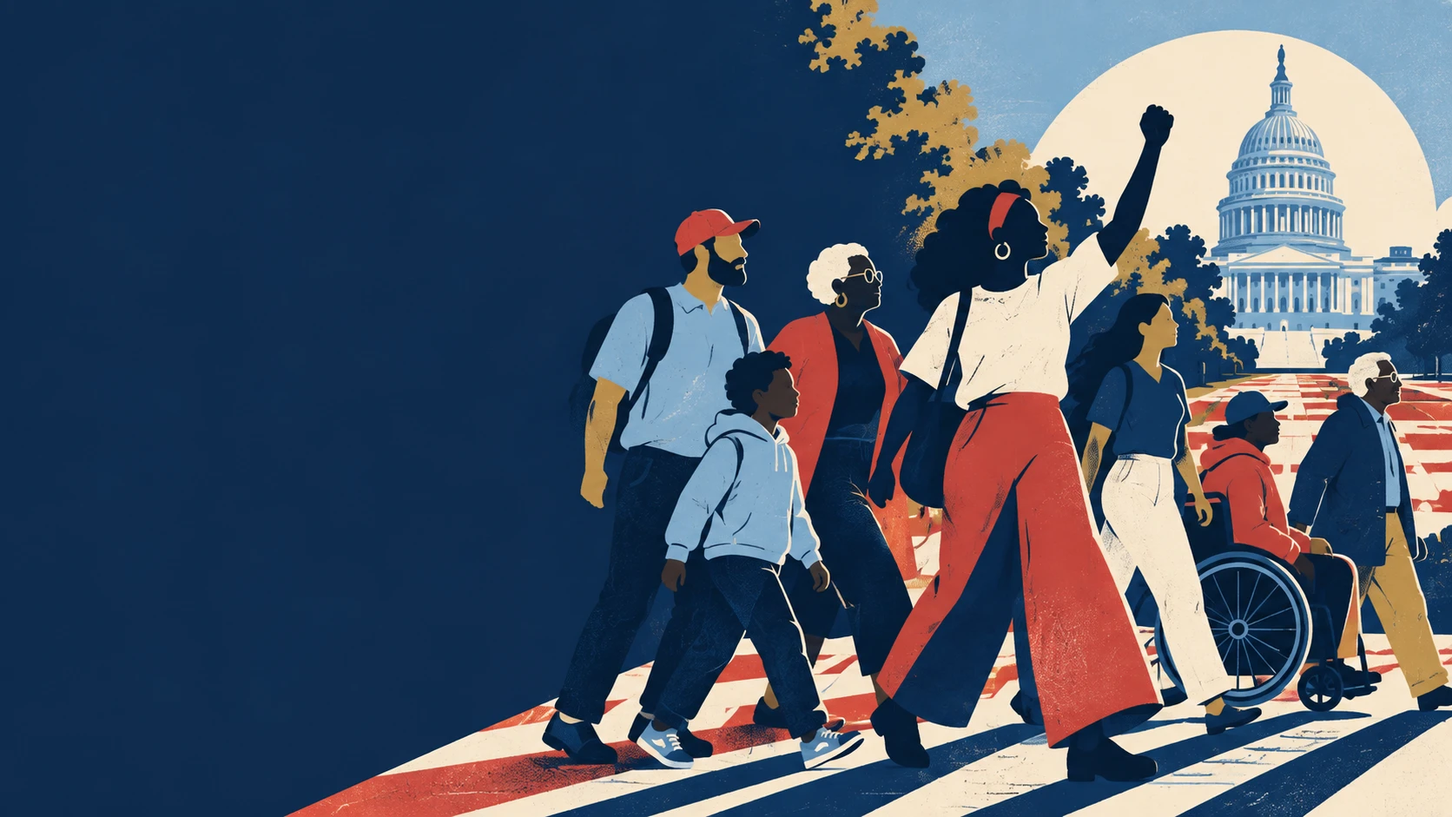
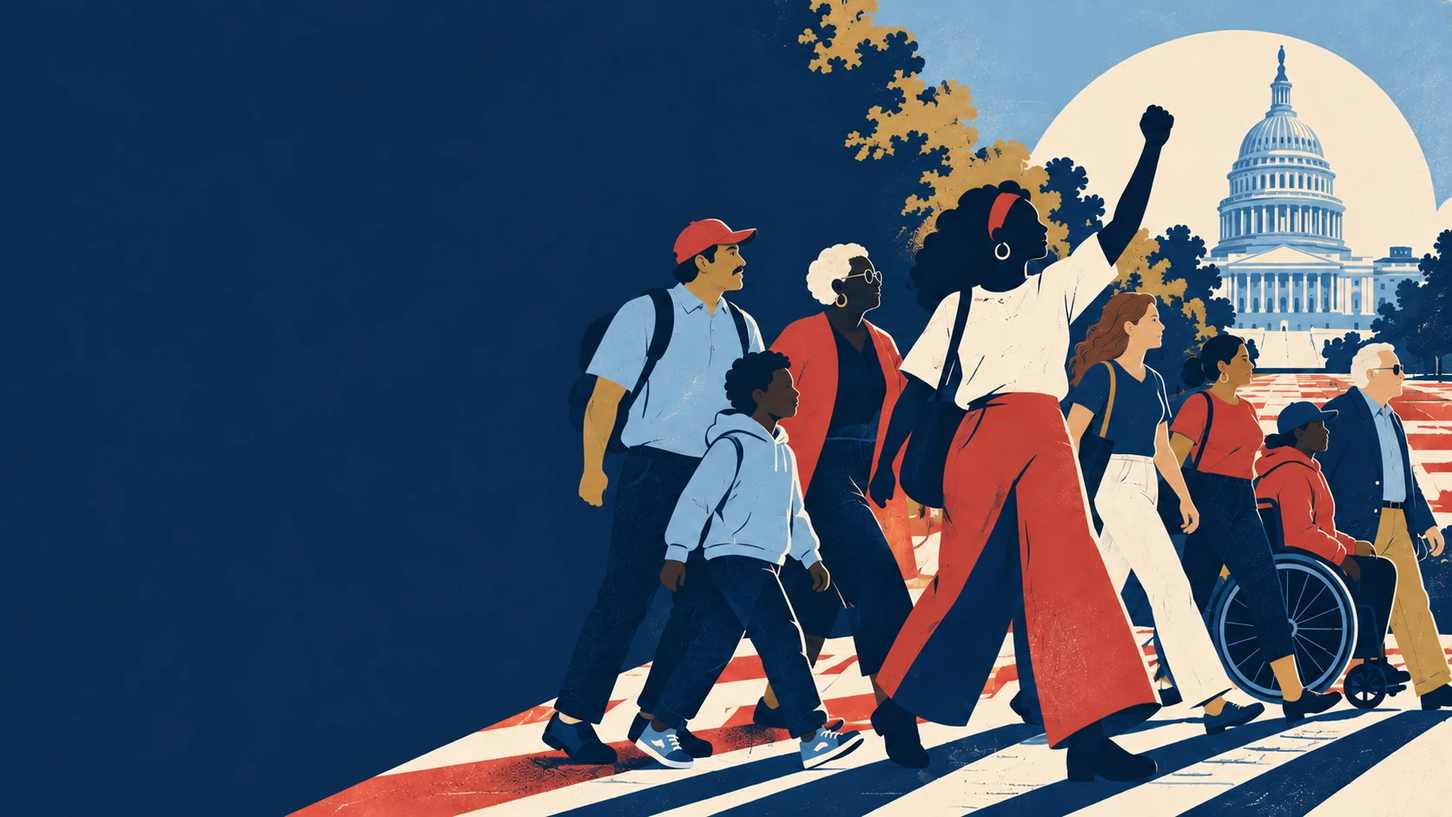
Hero illustration updated; bigger stars; website and cost lines in everyday words
Star rows in the nav, cost section and footer are one to two sizes larger. The website section and the matching cost lines drop the jargon: no PWA, funnel, data capture or ManyChat; each item says what the person sees and what happens next.

Claude-Session: https://claude.ai/code/session_0123hcW6i9a5ZmvJ6aCMrrAW

diff --git a/tailwind.css b/tailwind.css
@@ -1,1 +1,1 @@
-*,:after,:before{--tw-border-spacing-x:0;--tw-border-spacing-y:0;--tw-translate-x:0;--tw-translate-y:0;--tw-rotate:0;--tw-skew-x:0;--tw-skew-y:0;--tw-scale-x:1;--tw-scale-y:1;--tw-pan-x: ;--tw-pan-y: ;--tw-pinch-zoom: ;--tw-scroll-snap-strictness:proximity;--tw-gradient-from-position: ;--tw-gradient-via-position: ;--tw-gradient-to-position: ;--tw-ordinal: ;--tw-slashed-zero: ;--tw-numeric-figure: ;--tw-numeric-spacing: ;--tw-numeric-fraction: ;--tw-ring-inset: ;--tw-ring-offset-width:0px;--tw-ring-offset-color:#fff;--tw-ring-color:rgba(59,130,246,.5);--tw-ring-offset-shadow:0 0 #0000;--tw-ring-shadow:0 0 #0000;--tw-shadow:0 0 #0000;--tw-shadow-colored:0 0 #0000;--tw-blur: ;--tw-brightness: ;--tw-contrast: ;--tw-grayscale: ;--tw-hue-rotate: ;--tw-invert: ;--tw-saturate: ;--tw-sepia: ;--tw-drop-shadow: ;--tw-backdrop-blur: ;--tw-backdrop-brightness: ;--tw-backdrop-contrast: ;--tw-backdrop-grayscale: ;--tw-backdrop-hue-rotate: ;--tw-backdrop-invert: ;--tw-backdrop-opacity: ;--tw-backdrop-saturate: ;--tw-backdrop-sepia: ;--tw-contain-size: ;--tw-contain-layout: ;--tw-contain-paint: ;--tw-contain-style: }::backdrop{--tw-border-spacing-x:0;--tw-border-spacing-y:0;--tw-translate-x:0;--tw-translate-y:0;--tw-rotate:0;--tw-skew-x:0;--tw-skew-y:0;--tw-scale-x:1;--tw-scale-y:1;--tw-pan-x: ;--tw-pan-y: ;--tw-pinch-zoom: ;--tw-scroll-snap-strictness:proximity;--tw-gradient-from-position: ;--tw-gradient-via-position: ;--tw-gradient-to-position: ;--tw-ordinal: ;--tw-slashed-zero: ;--tw-numeric-figure: ;--tw-numeric-spacing: ;--tw-numeric-fraction: ;--tw-ring-inset: ;--tw-ring-offset-width:0px;--tw-ring-offset-color:#fff;--tw-ring-color:rgba(59,130,246,.5);--tw-ring-offset-shadow:0 0 #0000;--tw-ring-shadow:0 0 #0000;--tw-shadow:0 0 #0000;--tw-shadow-colored:0 0 #0000;--tw-blur: ;--tw-brightness: ;--tw-contrast: ;--tw-grayscale: ;--tw-hue-rotate: ;--tw-invert: ;--tw-saturate: ;--tw-sepia: ;--tw-drop-shadow: ;--tw-backdrop-blur: ;--tw-backdrop-brightness: ;--tw-backdrop-contrast: ;--tw-backdrop-grayscale: ;--tw-backdrop-hue-rotate: ;--tw-backdrop-invert: ;--tw-backdrop-opacity: ;--tw-backdrop-saturate: ;--tw-backdrop-sepia: ;--tw-contain-size: ;--tw-contain-layout: ;--tw-contain-paint: ;--tw-contain-style: }/*! tailwindcss v3.4.19 | MIT License | https://tailwindcss.com*/*,:after,:before{box-sizing:border-box;border:0 solid #e5e7eb}:after,:before{--tw-content:""}:host,html{line-height:1.5;-webkit-text-size-adjust:100%;-moz-tab-size:4;-o-tab-size:4;tab-size:4;font-family:Open Sans,sans-serif;font-feature-settings:normal;font-variation-settings:normal;-webkit-tap-highlight-color:transparent}body{margin:0;line-height:inherit}hr{height:0;color:inherit;border-top-width:1px}abbr:where([title]){-webkit-text-decoration:underline dotted;text-decoration:underline dotted}h1,h2,h3,h4,h5,h6{font-size:inherit;font-weight:inherit}a{color:inherit;text-decoration:inherit}b,strong{font-weight:bolder}code,kbd,pre,samp{font-family:ui-monospace,SFMono-Regular,Menlo,Monaco,Consolas,Liberation Mono,Courier New,monospace;font-feature-settings:normal;font-variation-settings:normal;font-size:1em}small{font-size:80%}sub,sup{font-size:75%;line-height:0;position:relative;vertical-align:baseline}sub{bottom:-.25em}sup{top:-.5em}table{text-indent:0;border-color:inherit;border-collapse:collapse}button,input,optgroup,select,textarea{font-family:inherit;font-feature-settings:inherit;font-variation-settings:inherit;font-size:100%;font-weight:inherit;line-height:inherit;letter-spacing:inherit;color:inherit;margin:0;padding:0}button,select{text-transform:none}button,input:where([type=button]),input:where([type=reset]),input:where([type=submit]){-webkit-appearance:button;background-color:transparent;background-image:none}:-moz-focusring{outline:auto}:-moz-ui-invalid{box-shadow:none}progress{vertical-align:baseline}::-webkit-inner-spin-button,::-webkit-outer-spin-button{height:auto}[type=search]{-webkit-appearance:textfield;outline-offset:-2px}::-webkit-search-decoration{-webkit-appearance:none}::-webkit-file-upload-button{-webkit-appearance:button;font:inherit}summary{display:list-item}blockquote,dd,dl,figure,h1,h2,h3,h4,h5,h6,hr,p,pre{margin:0}fieldset{margin:0}fieldset,legend{padding:0}menu,ol,ul{list-style:none;margin:0;padding:0}dialog{padding:0}textarea{resize:vertical}input::-moz-placeholder,textarea::-moz-placeholder{opacity:1;color:#9ca3af}input::placeholder,textarea::placeholder{opacity:1;color:#9ca3af}[role=button],button{cursor:pointer}:disabled{cursor:default}audio,canvas,embed,iframe,img,object,svg,video{display:block;vertical-align:middle}img,video{max-width:100%;height:auto}[hidden]:where(:not([hidden=until-found])){display:none}.pointer-events-none{pointer-events:none}.absolute{position:absolute}.relative{position:relative}.sticky{position:sticky}.inset-0{inset:0}.left-1\/2{left:50%}.top-0{top:0}.z-0{z-index:0}.z-10{z-index:10}.z-20{z-index:20}.z-50{z-index:50}.mx-auto{margin-left:auto;margin-right:auto}.my-24{margin-top:6rem;margin-bottom:6rem}.my-8{margin-top:2rem;margin-bottom:2rem}.mb-10{margin-bottom:2.5rem}.mb-16{margin-bottom:4rem}.mb-2{margin-bottom:.5rem}.mb-20{margin-bottom:5rem}.mb-24{margin-bottom:6rem}.mb-3{margin-bottom:.75rem}.mb-4{margin-bottom:1rem}.mb-5{margin-bottom:1.25rem}.mb-6{margin-bottom:1.5rem}.mb-8{margin-bottom:2rem}.mr-2{margin-right:.5rem}.mt-1{margin-top:.25rem}.mt-12{margin-top:3rem}.mt-2{margin-top:.5rem}.mt-24{margin-top:6rem}.mt-3{margin-top:.75rem}.mt-4{margin-top:1rem}.mt-6{margin-top:1.5rem}.block{display:block}.inline-block{display:inline-block}.flex{display:flex}.inline-flex{display:inline-flex}.grid{display:grid}.hidden{display:none}.h-12{height:3rem}.h-auto{height:auto}.w-12{width:3rem}.w-\[92vw\]{width:92vw}.w-full{width:100%}.min-w-0{min-width:0}.max-w-2xl{max-width:42rem}.max-w-3xl{max-width:48rem}.max-w-4xl{max-width:56rem}.max-w-5xl{max-width:64rem}.max-w-6xl{max-width:72rem}.max-w-7xl{max-width:80rem}.flex-1{flex:1 1 0%}.shrink-0{flex-shrink:0}.-translate-x-1\/2{--tw-translate-x:-50%}.-translate-x-1\/2,.-translate-y-1\/2{transform:translate(var(--tw-translate-x),var(--tw-translate-y)) rotate(var(--tw-rotate)) skewX(var(--tw-skew-x)) skewY(var(--tw-skew-y)) scaleX(var(--tw-scale-x)) scaleY(var(--tw-scale-y))}.-translate-y-1\/2{--tw-translate-y:-50%}.flex-col{flex-direction:column}.items-start{align-items:flex-start}.items-center{align-items:center}.justify-center{justify-content:center}.justify-between{justify-content:space-between}.gap-1{gap:.25rem}.gap-12{gap:3rem}.gap-16{gap:4rem}.gap-2{gap:.5rem}.gap-3{gap:.75rem}.gap-4{gap:1rem}.gap-6{gap:1.5rem}.gap-8{gap:2rem}.space-y-20>:not([hidden])~:not([hidden]){--tw-space-y-reverse:0;margin-top:calc(5rem*(1 - var(--tw-space-y-reverse)));margin-bottom:calc(5rem*var(--tw-space-y-reverse))}.space-y-4>:not([hidden])~:not([hidden]){--tw-space-y-reverse:0;margin-top:calc(1rem*(1 - var(--tw-space-y-reverse)));margin-bottom:calc(1rem*var(--tw-space-y-reverse))}.overflow-hidden{overflow:hidden}.scroll-smooth{scroll-behavior:smooth}.whitespace-nowrap{white-space:nowrap}.rounded-full{border-radius:9999px}.border{border-width:1px}.border-2{border-width:2px}.border-b{border-bottom-width:1px}.border-l-2{border-left-width:2px}.border-l-4{border-left-width:4px}.border-t{border-top-width:1px}.border-t-2{border-top-width:2px}.border-t-4{border-top-width:4px}.border-t-8{border-top-width:8px}.border-dcBlack{--tw-border-opacity:1;border-color:rgb(15 23 42/var(--tw-border-opacity,1))}.border-dcRed{--tw-border-opacity:1;border-color:rgb(227 24 55/var(--tw-border-opacity,1))}.border-gray-200{--tw-border-opacity:1;border-color:rgb(229 231 235/var(--tw-border-opacity,1))}.border-gray-300{--tw-border-opacity:1;border-color:rgb(209 213 219/var(--tw-border-opacity,1))}.border-gray-600{--tw-border-opacity:1;border-color:rgb(75 85 99/var(--tw-border-opacity,1))}.border-gray-700{--tw-border-opacity:1;border-color:rgb(55 65 81/var(--tw-border-opacity,1))}.border-white{--tw-border-opacity:1;border-color:rgb(255 255 255/var(--tw-border-opacity,1))}.bg-dcBlack{--tw-bg-opacity:1;background-color:rgb(15 23 42/var(--tw-bg-opacity,1))}.bg-dcRed{--tw-bg-opacity:1;background-color:rgb(227 24 55/var(--tw-bg-opacity,1))}.bg-gray-100{--tw-bg-opacity:1;background-color:rgb(243 244 246/var(--tw-bg-opacity,1))}.bg-gray-50{--tw-bg-opacity:1;background-color:rgb(249 250 251/var(--tw-bg-opacity,1))}.bg-transparent{background-color:transparent}.bg-white{--tw-bg-opacity:1;background-color:rgb(255 255 255/var(--tw-bg-opacity,1))}.bg-white\/95{background-color:hsla(0,0%,100%,.95)}.bg-\[url\(\'civil-rights-protest-wallpaper\.jpg\'\)\]{background-image:url(civil-rights-protest-wallpaper.jpg)}.bg-gradient-to-b{background-image:linear-gradient(to bottom,var(--tw-gradient-stops))}.from-gray-100{--tw-gradient-from:#f3f4f6 var(--tw-gradient-from-position);--tw-gradient-to:rgba(243,244,246,0) var(--tw-gradient-to-position);--tw-gradient-stops:var(--tw-gradient-from),var(--tw-gradient-to)}.via-white\/50{--tw-gradient-to:hsla(0,0%,100%,0) var(--tw-gradient-to-position);--tw-gradient-stops:var(--tw-gradient-from),hsla(0,0%,100%,.5) var(--tw-gradient-via-position),var(--tw-gradient-to)}.to-gray-100{--tw-gradient-to:#f3f4f6 var(--tw-gradient-to-position)}.bg-cover{background-size:cover}.bg-center{background-position:50%}.bg-no-repeat{background-repeat:no-repeat}.p-0{padding:0}.p-10{padding:2.5rem}.p-6{padding:1.5rem}.p-8{padding:2rem}.px-3{padding-left:.75rem;padding-right:.75rem}.px-4{padding-left:1rem;padding-right:1rem}.px-5{padding-left:1.25rem;padding-right:1.25rem}.px-6{padding-left:1.5rem;padding-right:1.5rem}.py-1{padding-top:.25rem;padding-bottom:.25rem}.py-16{padding-top:4rem;padding-bottom:4rem}.py-2{padding-top:.5rem;padding-bottom:.5rem}.py-20{padding-top:5rem;padding-bottom:5rem}.py-24{padding-top:6rem;padding-bottom:6rem}.py-3{padding-top:.75rem;padding-bottom:.75rem}.py-4{padding-top:1rem;padding-bottom:1rem}.py-6{padding-top:1.5rem;padding-bottom:1.5rem}.pb-10{padding-bottom:2.5rem}.pb-2{padding-bottom:.5rem}.pb-8{padding-bottom:2rem}.pl-4{padding-left:1rem}.pl-6{padding-left:1.5rem}.pt-12{padding-top:3rem}.pt-2{padding-top:.5rem}.text-left{text-align:left}.text-center{text-align:center}.font-heading{font-family:Montserrat,sans-serif}.font-sans{font-family:Open Sans,sans-serif}.text-2xl{font-size:1.5rem;line-height:2rem}.text-3xl{font-size:1.875rem;line-height:2.25rem}.text-4xl{font-size:2.25rem;line-height:2.5rem}.text-5xl{font-size:3rem;line-height:1}.text-6xl{font-size:3.75rem;line-height:1}.text-\[10px\]{font-size:10px}.text-base{font-size:1rem;line-height:1.5rem}.text-lg{font-size:1.125rem;line-height:1.75rem}.text-sm{font-size:.875rem;line-height:1.25rem}.text-xl{font-size:1.25rem;line-height:1.75rem}.text-xs{font-size:.75rem;line-height:1rem}.font-black{font-weight:900}.font-bold{font-weight:700}.font-light{font-weight:300}.uppercase{text-transform:uppercase}.leading-\[0\.9\]{line-height:.9}.leading-none{line-height:1}.leading-relaxed{line-height:1.625}.leading-snug{line-height:1.375}.leading-tight{line-height:1.25}.tracking-\[0\.2em\]{letter-spacing:.2em}.tracking-\[0\.3em\]{letter-spacing:.3em}.tracking-tight{letter-spacing:-.025em}.tracking-tighter{letter-spacing:-.05em}.tracking-wider{letter-spacing:.05em}.tracking-widest{letter-spacing:.1em}.text-dcBlack{--tw-text-opacity:1;color:rgb(15 23 42/var(--tw-text-opacity,1))}.text-dcRed{--tw-text-opacity:1;color:rgb(227 24 55/var(--tw-text-opacity,1))}.text-gray-300{--tw-text-opacity:1;color:rgb(209 213 219/var(--tw-text-opacity,1))}.text-gray-400{--tw-text-opacity:1;color:rgb(156 163 175/var(--tw-text-opacity,1))}.text-gray-500{--tw-text-opacity:1;color:rgb(107 114 128/var(--tw-text-opacity,1))}.text-gray-600{--tw-text-opacity:1;color:rgb(75 85 99/var(--tw-text-opacity,1))}.text-gray-700{--tw-text-opacity:1;color:rgb(55 65 81/var(--tw-text-opacity,1))}.text-gray-800{--tw-text-opacity:1;color:rgb(31 41 55/var(--tw-text-opacity,1))}.text-white{--tw-text-opacity:1;color:rgb(255 255 255/var(--tw-text-opacity,1))}.antialiased{-webkit-font-smoothing:antialiased;-moz-osx-font-smoothing:grayscale}.opacity-\[0\.08\]{opacity:.08}.mix-blend-multiply{mix-blend-mode:multiply}.shadow-\[0_20px_50px_rgba\(0\2c 0\2c 0\2c 0\.08\)\]{--tw-shadow:0 20px 50px rgba(0,0,0,.08);--tw-shadow-colored:0 20px 50px var(--tw-shadow-color)}.shadow-\[0_20px_50px_rgba\(0\2c 0\2c 0\2c 0\.08\)\],.shadow-md{box-shadow:var(--tw-ring-offset-shadow,0 0 #0000),var(--tw-ring-shadow,0 0 #0000),var(--tw-shadow)}.shadow-md{--tw-shadow:0 4px 6px -1px rgba(0,0,0,.1),0 2px 4px -2px rgba(0,0,0,.1);--tw-shadow-colored:0 4px 6px -1px var(--tw-shadow-color),0 2px 4px -2px var(--tw-shadow-color)}.shadow-sm{--tw-shadow:0 1px 2px 0 rgba(0,0,0,.05);--tw-shadow-colored:0 1px 2px 0 var(--tw-shadow-color);box-shadow:var(--tw-ring-offset-shadow,0 0 #0000),var(--tw-ring-shadow,0 0 #0000),var(--tw-shadow)}.grayscale{--tw-grayscale:grayscale(100%);filter:var(--tw-blur) var(--tw-brightness) var(--tw-contrast) var(--tw-grayscale) var(--tw-hue-rotate) var(--tw-invert) var(--tw-saturate) var(--tw-sepia) var(--tw-drop-shadow)}.backdrop-blur-md{--tw-backdrop-blur:blur(12px);-webkit-backdrop-filter:var(--tw-backdrop-blur) var(--tw-backdrop-brightness) var(--tw-backdrop-contrast) var(--tw-backdrop-grayscale) var(--tw-backdrop-hue-rotate) var(--tw-backdrop-invert) var(--tw-backdrop-opacity) var(--tw-backdrop-saturate) var(--tw-backdrop-sepia);backdrop-filter:var(--tw-backdrop-blur) var(--tw-backdrop-brightness) var(--tw-backdrop-contrast) var(--tw-backdrop-grayscale) var(--tw-backdrop-hue-rotate) var(--tw-backdrop-invert) var(--tw-backdrop-opacity) var(--tw-backdrop-saturate) var(--tw-backdrop-sepia)}.transition{transition-property:color,background-color,border-color,text-decoration-color,fill,stroke,opacity,box-shadow,transform,filter,-webkit-backdrop-filter;transition-property:color,background-color,border-color,text-decoration-color,fill,stroke,opacity,box-shadow,transform,filter,backdrop-filter;transition-property:color,background-color,border-color,text-decoration-color,fill,stroke,opacity,box-shadow,transform,filter,backdrop-filter,-webkit-backdrop-filter;transition-timing-function:cubic-bezier(.4,0,.2,1);transition-duration:.15s}.transition-colors{transition-property:color,background-color,border-color,text-decoration-color,fill,stroke;transition-timing-function:cubic-bezier(.4,0,.2,1);transition-duration:.15s}.selection\:bg-dcRed ::-moz-selection{--tw-bg-opacity:1;background-color:rgb(227 24 55/var(--tw-bg-opacity,1))}.selection\:bg-dcRed ::selection{--tw-bg-opacity:1;background-color:rgb(227 24 55/var(--tw-bg-opacity,1))}.selection\:text-white ::-moz-selection{--tw-text-opacity:1;color:rgb(255 255 255/var(--tw-text-opacity,1))}.selection\:text-white ::selection{--tw-text-opacity:1;color:rgb(255 255 255/var(--tw-text-opacity,1))}.selection\:bg-dcRed::-moz-selection{--tw-bg-opacity:1;background-color:rgb(227 24 55/var(--tw-bg-opacity,1))}.selection\:bg-dcRed::selection{--tw-bg-opacity:1;background-color:rgb(227 24 55/var(--tw-bg-opacity,1))}.selection\:text-white::-moz-selection{--tw-text-opacity:1;color:rgb(255 255 255/var(--tw-text-opacity,1))}.selection\:text-white::selection{--tw-text-opacity:1;color:rgb(255 255 255/var(--tw-text-opacity,1))}.backdrop\:bg-dcBlack\/90::backdrop{background-color:rgba(15,23,42,.9)}.hover\:bg-dcRed:hover{--tw-bg-opacity:1;background-color:rgb(227 24 55/var(--tw-bg-opacity,1))}.hover\:text-dcBlack:hover{--tw-text-opacity:1;color:rgb(15 23 42/var(--tw-text-opacity,1))}.hover\:text-dcRed:hover{--tw-text-opacity:1;color:rgb(227 24 55/var(--tw-text-opacity,1))}.focus\:outline-none:focus{outline:2px solid transparent;outline-offset:2px}.group:hover .group-hover\:text-dcRed{--tw-text-opacity:1;color:rgb(227 24 55/var(--tw-text-opacity,1))}@media (min-width:768px){.md\:col-span-2{grid-column:span 2/span 2}.md\:mt-0{margin-top:0}.md\:inline-block{display:inline-block}.md\:w-1\/3{width:33.333333%}.md\:w-1\/4{width:25%}.md\:w-2\/3{width:66.666667%}.md\:w-3\/4{width:75%}.md\:grid-cols-2{grid-template-columns:repeat(2,minmax(0,1fr))}.md\:grid-cols-4{grid-template-columns:repeat(4,minmax(0,1fr))}.md\:flex-row{flex-direction:row}.md\:items-center{align-items:center}.md\:gap-0{gap:0}.md\:gap-12{gap:3rem}.md\:gap-3{gap:.75rem}.md\:border-b-0{border-bottom-width:0}.md\:border-l-2{border-left-width:2px}.md\:border-r{border-right-width:1px}.md\:p-10{padding:2.5rem}.md\:p-12{padding:3rem}.md\:p-14{padding:3.5rem}.md\:p-8{padding:2rem}.md\:px-12{padding-left:3rem;padding-right:3rem}.md\:py-32{padding-top:8rem;padding-bottom:8rem}.md\:pb-0{padding-bottom:0}.md\:pl-12{padding-left:3rem}.md\:pl-4{padding-left:1rem}.md\:pr-12{padding-right:3rem}.md\:pr-8{padding-right:2rem}.md\:text-right{text-align:right}.md\:text-2xl{font-size:1.5rem;line-height:2rem}.md\:text-3xl{font-size:1.875rem;line-height:2.25rem}.md\:text-4xl{font-size:2.25rem;line-height:2.5rem}.md\:text-5xl{font-size:3rem;line-height:1}.md\:text-6xl{font-size:3.75rem;line-height:1}.md\:text-7xl{font-size:4.5rem;line-height:1}.md\:text-xs{font-size:.75rem;line-height:1rem}}@media (min-width:1024px){.lg\:w-1\/3{width:33.333333%}.lg\:w-2\/3{width:66.666667%}.lg\:flex-row{flex-direction:row}.lg\:pl-16{padding-left:4rem}.lg\:pr-16{padding-right:4rem}.lg\:text-\[5\.5rem\]{font-size:5.5rem}}@media (min-width:1280px){.xl\:flex{display:flex}}
+*,:after,:before{--tw-border-spacing-x:0;--tw-border-spacing-y:0;--tw-translate-x:0;--tw-translate-y:0;--tw-rotate:0;--tw-skew-x:0;--tw-skew-y:0;--tw-scale-x:1;--tw-scale-y:1;--tw-pan-x: ;--tw-pan-y: ;--tw-pinch-zoom: ;--tw-scroll-snap-strictness:proximity;--tw-gradient-from-position: ;--tw-gradient-via-position: ;--tw-gradient-to-position: ;--tw-ordinal: ;--tw-slashed-zero: ;--tw-numeric-figure: ;--tw-numeric-spacing: ;--tw-numeric-fraction: ;--tw-ring-inset: ;--tw-ring-offset-width:0px;--tw-ring-offset-color:#fff;--tw-ring-color:rgba(59,130,246,.5);--tw-ring-offset-shadow:0 0 #0000;--tw-ring-shadow:0 0 #0000;--tw-shadow:0 0 #0000;--tw-shadow-colored:0 0 #0000;--tw-blur: ;--tw-brightness: ;--tw-contrast: ;--tw-grayscale: ;--tw-hue-rotate: ;--tw-invert: ;--tw-saturate: ;--tw-sepia: ;--tw-drop-shadow: ;--tw-backdrop-blur: ;--tw-backdrop-brightness: ;--tw-backdrop-contrast: ;--tw-backdrop-grayscale: ;--tw-backdrop-hue-rotate: ;--tw-backdrop-invert: ;--tw-backdrop-opacity: ;--tw-backdrop-saturate: ;--tw-backdrop-sepia: ;--tw-contain-size: ;--tw-contain-layout: ;--tw-contain-paint: ;--tw-contain-style: }::backdrop{--tw-border-spacing-x:0;--tw-border-spacing-y:0;--tw-translate-x:0;--tw-translate-y:0;--tw-rotate:0;--tw-skew-x:0;--tw-skew-y:0;--tw-scale-x:1;--tw-scale-y:1;--tw-pan-x: ;--tw-pan-y: ;--tw-pinch-zoom: ;--tw-scroll-snap-strictness:proximity;--tw-gradient-from-position: ;--tw-gradient-via-position: ;--tw-gradient-to-position: ;--tw-ordinal: ;--tw-slashed-zero: ;--tw-numeric-figure: ;--tw-numeric-spacing: ;--tw-numeric-fraction: ;--tw-ring-inset: ;--tw-ring-offset-width:0px;--tw-ring-offset-color:#fff;--tw-ring-color:rgba(59,130,246,.5);--tw-ring-offset-shadow:0 0 #0000;--tw-ring-shadow:0 0 #0000;--tw-shadow:0 0 #0000;--tw-shadow-colored:0 0 #0000;--tw-blur: ;--tw-brightness: ;--tw-contrast: ;--tw-grayscale: ;--tw-hue-rotate: ;--tw-invert: ;--tw-saturate: ;--tw-sepia: ;--tw-drop-shadow: ;--tw-backdrop-blur: ;--tw-backdrop-brightness: ;--tw-backdrop-contrast: ;--tw-backdrop-grayscale: ;--tw-backdrop-hue-rotate: ;--tw-backdrop-invert: ;--tw-backdrop-opacity: ;--tw-backdrop-saturate: ;--tw-backdrop-sepia: ;--tw-contain-size: ;--tw-contain-layout: ;--tw-contain-paint: ;--tw-contain-style: }/*! tailwindcss v3.4.19 | MIT License | https://tailwindcss.com*/*,:after,:before{box-sizing:border-box;border:0 solid #e5e7eb}:after,:before{--tw-content:""}:host,html{line-height:1.5;-webkit-text-size-adjust:100%;-moz-tab-size:4;-o-tab-size:4;tab-size:4;font-family:Open Sans,sans-serif;font-feature-settings:normal;font-variation-settings:normal;-webkit-tap-highlight-color:transparent}body{margin:0;line-height:inherit}hr{height:0;color:inherit;border-top-width:1px}abbr:where([title]){-webkit-text-decoration:underline dotted;text-decoration:underline dotted}h1,h2,h3,h4,h5,h6{font-size:inherit;font-weight:inherit}a{color:inherit;text-decoration:inherit}b,strong{font-weight:bolder}code,kbd,pre,samp{font-family:ui-monospace,SFMono-Regular,Menlo,Monaco,Consolas,Liberation Mono,Courier New,monospace;font-feature-settings:normal;font-variation-settings:normal;font-size:1em}small{font-size:80%}sub,sup{font-size:75%;line-height:0;position:relative;vertical-align:baseline}sub{bottom:-.25em}sup{top:-.5em}table{text-indent:0;border-color:inherit;border-collapse:collapse}button,input,optgroup,select,textarea{font-family:inherit;font-feature-settings:inherit;font-variation-settings:inherit;font-size:100%;font-weight:inherit;line-height:inherit;letter-spacing:inherit;color:inherit;margin:0;padding:0}button,select{text-transform:none}button,input:where([type=button]),input:where([type=reset]),input:where([type=submit]){-webkit-appearance:button;background-color:transparent;background-image:none}:-moz-focusring{outline:auto}:-moz-ui-invalid{box-shadow:none}progress{vertical-align:baseline}::-webkit-inner-spin-button,::-webkit-outer-spin-button{height:auto}[type=search]{-webkit-appearance:textfield;outline-offset:-2px}::-webkit-search-decoration{-webkit-appearance:none}::-webkit-file-upload-button{-webkit-appearance:button;font:inherit}summary{display:list-item}blockquote,dd,dl,figure,h1,h2,h3,h4,h5,h6,hr,p,pre{margin:0}fieldset{margin:0}fieldset,legend{padding:0}menu,ol,ul{list-style:none;margin:0;padding:0}dialog{padding:0}textarea{resize:vertical}input::-moz-placeholder,textarea::-moz-placeholder{opacity:1;color:#9ca3af}input::placeholder,textarea::placeholder{opacity:1;color:#9ca3af}[role=button],button{cursor:pointer}:disabled{cursor:default}audio,canvas,embed,iframe,img,object,svg,video{display:block;vertical-align:middle}img,video{max-width:100%;height:auto}[hidden]:where(:not([hidden=until-found])){display:none}.pointer-events-none{pointer-events:none}.absolute{position:absolute}.relative{position:relative}.sticky{position:sticky}.inset-0{inset:0}.left-1\/2{left:50%}.top-0{top:0}.z-0{z-index:0}.z-10{z-index:10}.z-20{z-index:20}.z-50{z-index:50}.mx-auto{margin-left:auto;margin-right:auto}.my-24{margin-top:6rem;margin-bottom:6rem}.my-8{margin-top:2rem;margin-bottom:2rem}.mb-10{margin-bottom:2.5rem}.mb-16{margin-bottom:4rem}.mb-2{margin-bottom:.5rem}.mb-20{margin-bottom:5rem}.mb-24{margin-bottom:6rem}.mb-3{margin-bottom:.75rem}.mb-4{margin-bottom:1rem}.mb-5{margin-bottom:1.25rem}.mb-6{margin-bottom:1.5rem}.mb-8{margin-bottom:2rem}.mr-2{margin-right:.5rem}.mt-1{margin-top:.25rem}.mt-12{margin-top:3rem}.mt-2{margin-top:.5rem}.mt-24{margin-top:6rem}.mt-3{margin-top:.75rem}.mt-4{margin-top:1rem}.mt-6{margin-top:1.5rem}.block{display:block}.inline-block{display:inline-block}.flex{display:flex}.inline-flex{display:inline-flex}.grid{display:grid}.hidden{display:none}.h-12{height:3rem}.h-auto{height:auto}.w-12{width:3rem}.w-\[92vw\]{width:92vw}.w-full{width:100%}.min-w-0{min-width:0}.max-w-2xl{max-width:42rem}.max-w-3xl{max-width:48rem}.max-w-4xl{max-width:56rem}.max-w-5xl{max-width:64rem}.max-w-6xl{max-width:72rem}.max-w-7xl{max-width:80rem}.flex-1{flex:1 1 0%}.shrink-0{flex-shrink:0}.-translate-x-1\/2{--tw-translate-x:-50%}.-translate-x-1\/2,.-translate-y-1\/2{transform:translate(var(--tw-translate-x),var(--tw-translate-y)) rotate(var(--tw-rotate)) skewX(var(--tw-skew-x)) skewY(var(--tw-skew-y)) scaleX(var(--tw-scale-x)) scaleY(var(--tw-scale-y))}.-translate-y-1\/2{--tw-translate-y:-50%}.flex-col{flex-direction:column}.items-start{align-items:flex-start}.items-center{align-items:center}.justify-center{justify-content:center}.justify-between{justify-content:space-between}.gap-1{gap:.25rem}.gap-1\.5{gap:.375rem}.gap-12{gap:3rem}.gap-16{gap:4rem}.gap-2{gap:.5rem}.gap-3{gap:.75rem}.gap-4{gap:1rem}.gap-6{gap:1.5rem}.gap-8{gap:2rem}.space-y-20>:not([hidden])~:not([hidden]){--tw-space-y-reverse:0;margin-top:calc(5rem*(1 - var(--tw-space-y-reverse)));margin-bottom:calc(5rem*var(--tw-space-y-reverse))}.space-y-4>:not([hidden])~:not([hidden]){--tw-space-y-reverse:0;margin-top:calc(1rem*(1 - var(--tw-space-y-reverse)));margin-bottom:calc(1rem*var(--tw-space-y-reverse))}.overflow-hidden{overflow:hidden}.scroll-smooth{scroll-behavior:smooth}.whitespace-nowrap{white-space:nowrap}.rounded-full{border-radius:9999px}.border{border-width:1px}.border-2{border-width:2px}.border-b{border-bottom-width:1px}.border-l-2{border-left-width:2px}.border-l-4{border-left-width:4px}.border-t{border-top-width:1px}.border-t-2{border-top-width:2px}.border-t-4{border-top-width:4px}.border-t-8{border-top-width:8px}.border-dcBlack{--tw-border-opacity:1;border-color:rgb(15 23 42/var(--tw-border-opacity,1))}.border-dcRed{--tw-border-opacity:1;border-color:rgb(227 24 55/var(--tw-border-opacity,1))}.border-gray-200{--tw-border-opacity:1;border-color:rgb(229 231 235/var(--tw-border-opacity,1))}.border-gray-300{--tw-border-opacity:1;border-color:rgb(209 213 219/var(--tw-border-opacity,1))}.border-gray-600{--tw-border-opacity:1;border-color:rgb(75 85 99/var(--tw-border-opacity,1))}.border-gray-700{--tw-border-opacity:1;border-color:rgb(55 65 81/var(--tw-border-opacity,1))}.border-white{--tw-border-opacity:1;border-color:rgb(255 255 255/var(--tw-border-opacity,1))}.bg-dcBlack{--tw-bg-opacity:1;background-color:rgb(15 23 42/var(--tw-bg-opacity,1))}.bg-dcRed{--tw-bg-opacity:1;background-color:rgb(227 24 55/var(--tw-bg-opacity,1))}.bg-gray-100{--tw-bg-opacity:1;background-color:rgb(243 244 246/var(--tw-bg-opacity,1))}.bg-gray-50{--tw-bg-opacity:1;background-color:rgb(249 250 251/var(--tw-bg-opacity,1))}.bg-transparent{background-color:transparent}.bg-white{--tw-bg-opacity:1;background-color:rgb(255 255 255/var(--tw-bg-opacity,1))}.bg-white\/95{background-color:hsla(0,0%,100%,.95)}.bg-\[url\(\'civil-rights-protest-wallpaper\.jpg\'\)\]{background-image:url(civil-rights-protest-wallpaper.jpg)}.bg-gradient-to-b{background-image:linear-gradient(to bottom,var(--tw-gradient-stops))}.from-gray-100{--tw-gradient-from:#f3f4f6 var(--tw-gradient-from-position);--tw-gradient-to:rgba(243,244,246,0) var(--tw-gradient-to-position);--tw-gradient-stops:var(--tw-gradient-from),var(--tw-gradient-to)}.via-white\/50{--tw-gradient-to:hsla(0,0%,100%,0) var(--tw-gradient-to-position);--tw-gradient-stops:var(--tw-gradient-from),hsla(0,0%,100%,.5) var(--tw-gradient-via-position),var(--tw-gradient-to)}.to-gray-100{--tw-gradient-to:#f3f4f6 var(--tw-gradient-to-position)}.bg-cover{background-size:cover}.bg-center{background-position:50%}.bg-no-repeat{background-repeat:no-repeat}.p-0{padding:0}.p-10{padding:2.5rem}.p-6{padding:1.5rem}.p-8{padding:2rem}.px-3{padding-left:.75rem;padding-right:.75rem}.px-4{padding-left:1rem;padding-right:1rem}.px-5{padding-left:1.25rem;padding-right:1.25rem}.px-6{padding-left:1.5rem;padding-right:1.5rem}.py-1{padding-top:.25rem;padding-bottom:.25rem}.py-16{padding-top:4rem;padding-bottom:4rem}.py-2{padding-top:.5rem;padding-bottom:.5rem}.py-20{padding-top:5rem;padding-bottom:5rem}.py-24{padding-top:6rem;padding-bottom:6rem}.py-3{padding-top:.75rem;padding-bottom:.75rem}.py-4{padding-top:1rem;padding-bottom:1rem}.py-6{padding-top:1.5rem;padding-bottom:1.5rem}.pb-10{padding-bottom:2.5rem}.pb-2{padding-bottom:.5rem}.pb-8{padding-bottom:2rem}.pl-4{padding-left:1rem}.pl-6{padding-left:1.5rem}.pt-12{padding-top:3rem}.pt-2{padding-top:.5rem}.text-left{text-align:left}.text-center{text-align:center}.font-heading{font-family:Montserrat,sans-serif}.font-sans{font-family:Open Sans,sans-serif}.text-2xl{font-size:1.5rem;line-height:2rem}.text-3xl{font-size:1.875rem;line-height:2.25rem}.text-4xl{font-size:2.25rem;line-height:2.5rem}.text-5xl{font-size:3rem;line-height:1}.text-6xl{font-size:3.75rem;line-height:1}.text-\[10px\]{font-size:10px}.text-base{font-size:1rem;line-height:1.5rem}.text-lg{font-size:1.125rem;line-height:1.75rem}.text-sm{font-size:.875rem;line-height:1.25rem}.text-xl{font-size:1.25rem;line-height:1.75rem}.text-xs{font-size:.75rem;line-height:1rem}.font-black{font-weight:900}.font-bold{font-weight:700}.font-light{font-weight:300}.uppercase{text-transform:uppercase}.leading-\[0\.9\]{line-height:.9}.leading-none{line-height:1}.leading-relaxed{line-height:1.625}.leading-snug{line-height:1.375}.leading-tight{line-height:1.25}.tracking-\[0\.2em\]{letter-spacing:.2em}.tracking-\[0\.3em\]{letter-spacing:.3em}.tracking-tight{letter-spacing:-.025em}.tracking-tighter{letter-spacing:-.05em}.tracking-wider{letter-spacing:.05em}.tracking-widest{letter-spacing:.1em}.text-dcBlack{--tw-text-opacity:1;color:rgb(15 23 42/var(--tw-text-opacity,1))}.text-dcRed{--tw-text-opacity:1;color:rgb(227 24 55/var(--tw-text-opacity,1))}.text-gray-300{--tw-text-opacity:1;color:rgb(209 213 219/var(--tw-text-opacity,1))}.text-gray-400{--tw-text-opacity:1;color:rgb(156 163 175/var(--tw-text-opacity,1))}.text-gray-500{--tw-text-opacity:1;color:rgb(107 114 128/var(--tw-text-opacity,1))}.text-gray-600{--tw-text-opacity:1;color:rgb(75 85 99/var(--tw-text-opacity,1))}.text-gray-700{--tw-text-opacity:1;color:rgb(55 65 81/var(--tw-text-opacity,1))}.text-gray-800{--tw-text-opacity:1;color:rgb(31 41 55/var(--tw-text-opacity,1))}.text-white{--tw-text-opacity:1;color:rgb(255 255 255/var(--tw-text-opacity,1))}.antialiased{-webkit-font-smoothing:antialiased;-moz-osx-font-smoothing:grayscale}.opacity-\[0\.08\]{opacity:.08}.mix-blend-multiply{mix-blend-mode:multiply}.shadow-\[0_20px_50px_rgba\(0\2c 0\2c 0\2c 0\.08\)\]{--tw-shadow:0 20px 50px rgba(0,0,0,.08);--tw-shadow-colored:0 20px 50px var(--tw-shadow-color)}.shadow-\[0_20px_50px_rgba\(0\2c 0\2c 0\2c 0\.08\)\],.shadow-md{box-shadow:var(--tw-ring-offset-shadow,0 0 #0000),var(--tw-ring-shadow,0 0 #0000),var(--tw-shadow)}.shadow-md{--tw-shadow:0 4px 6px -1px rgba(0,0,0,.1),0 2px 4px -2px rgba(0,0,0,.1);--tw-shadow-colored:0 4px 6px -1px var(--tw-shadow-color),0 2px 4px -2px var(--tw-shadow-color)}.shadow-sm{--tw-shadow:0 1px 2px 0 rgba(0,0,0,.05);--tw-shadow-colored:0 1px 2px 0 var(--tw-shadow-color);box-shadow:var(--tw-ring-offset-shadow,0 0 #0000),var(--tw-ring-shadow,0 0 #0000),var(--tw-shadow)}.grayscale{--tw-grayscale:grayscale(100%);filter:var(--tw-blur) var(--tw-brightness) var(--tw-contrast) var(--tw-grayscale) var(--tw-hue-rotate) var(--tw-invert) var(--tw-saturate) var(--tw-sepia) var(--tw-drop-shadow)}.backdrop-blur-md{--tw-backdrop-blur:blur(12px);-webkit-backdrop-filter:var(--tw-backdrop-blur) var(--tw-backdrop-brightness) var(--tw-backdrop-contrast) var(--tw-backdrop-grayscale) var(--tw-backdrop-hue-rotate) var(--tw-backdrop-invert) var(--tw-backdrop-opacity) var(--tw-backdrop-saturate) var(--tw-backdrop-sepia);backdrop-filter:var(--tw-backdrop-blur) var(--tw-backdrop-brightness) var(--tw-backdrop-contrast) var(--tw-backdrop-grayscale) var(--tw-backdrop-hue-rotate) var(--tw-backdrop-invert) var(--tw-backdrop-opacity) var(--tw-backdrop-saturate) var(--tw-backdrop-sepia)}.transition{transition-property:color,background-color,border-color,text-decoration-color,fill,stroke,opacity,box-shadow,transform,filter,-webkit-backdrop-filter;transition-property:color,background-color,border-color,text-decoration-color,fill,stroke,opacity,box-shadow,transform,filter,backdrop-filter;transition-property:color,background-color,border-color,text-decoration-color,fill,stroke,opacity,box-shadow,transform,filter,backdrop-filter,-webkit-backdrop-filter;transition-timing-function:cubic-bezier(.4,0,.2,1);transition-duration:.15s}.transition-colors{transition-property:color,background-color,border-color,text-decoration-color,fill,stroke;transition-timing-function:cubic-bezier(.4,0,.2,1);transition-duration:.15s}.selection\:bg-dcRed ::-moz-selection{--tw-bg-opacity:1;background-color:rgb(227 24 55/var(--tw-bg-opacity,1))}.selection\:bg-dcRed ::selection{--tw-bg-opacity:1;background-color:rgb(227 24 55/var(--tw-bg-opacity,1))}.selection\:text-white ::-moz-selection{--tw-text-opacity:1;color:rgb(255 255 255/var(--tw-text-opacity,1))}.selection\:text-white ::selection{--tw-text-opacity:1;color:rgb(255 255 255/var(--tw-text-opacity,1))}.selection\:bg-dcRed::-moz-selection{--tw-bg-opacity:1;background-color:rgb(227 24 55/var(--tw-bg-opacity,1))}.selection\:bg-dcRed::selection{--tw-bg-opacity:1;background-color:rgb(227 24 55/var(--tw-bg-opacity,1))}.selection\:text-white::-moz-selection{--tw-text-opacity:1;color:rgb(255 255 255/var(--tw-text-opacity,1))}.selection\:text-white::selection{--tw-text-opacity:1;color:rgb(255 255 255/var(--tw-text-opacity,1))}.backdrop\:bg-dcBlack\/90::backdrop{background-color:rgba(15,23,42,.9)}.hover\:bg-dcRed:hover{--tw-bg-opacity:1;background-color:rgb(227 24 55/var(--tw-bg-opacity,1))}.hover\:text-dcBlack:hover{--tw-text-opacity:1;color:rgb(15 23 42/var(--tw-text-opacity,1))}.hover\:text-dcRed:hover{--tw-text-opacity:1;color:rgb(227 24 55/var(--tw-text-opacity,1))}.focus\:outline-none:focus{outline:2px solid transparent;outline-offset:2px}.group:hover .group-hover\:text-dcRed{--tw-text-opacity:1;color:rgb(227 24 55/var(--tw-text-opacity,1))}@media (min-width:768px){.md\:col-span-2{grid-column:span 2/span 2}.md\:mt-0{margin-top:0}.md\:inline-block{display:inline-block}.md\:w-1\/3{width:33.333333%}.md\:w-1\/4{width:25%}.md\:w-2\/3{width:66.666667%}.md\:w-3\/4{width:75%}.md\:grid-cols-2{grid-template-columns:repeat(2,minmax(0,1fr))}.md\:grid-cols-4{grid-template-columns:repeat(4,minmax(0,1fr))}.md\:flex-row{flex-direction:row}.md\:items-center{align-items:center}.md\:gap-0{gap:0}.md\:gap-12{gap:3rem}.md\:gap-3{gap:.75rem}.md\:border-b-0{border-bottom-width:0}.md\:border-l-2{border-left-width:2px}.md\:border-r{border-right-width:1px}.md\:p-10{padding:2.5rem}.md\:p-12{padding:3rem}.md\:p-14{padding:3.5rem}.md\:p-8{padding:2rem}.md\:px-12{padding-left:3rem;padding-right:3rem}.md\:py-32{padding-top:8rem;padding-bottom:8rem}.md\:pb-0{padding-bottom:0}.md\:pl-12{padding-left:3rem}.md\:pl-4{padding-left:1rem}.md\:pr-12{padding-right:3rem}.md\:pr-8{padding-right:2rem}.md\:text-right{text-align:right}.md\:text-2xl{font-size:1.5rem;line-height:2rem}.md\:text-3xl{font-size:1.875rem;line-height:2.25rem}.md\:text-4xl{font-size:2.25rem;line-height:2.5rem}.md\:text-5xl{font-size:3rem;line-height:1}.md\:text-6xl{font-size:3.75rem;line-height:1}.md\:text-7xl{font-size:4.5rem;line-height:1}.md\:text-xs{font-size:.75rem;line-height:1rem}}@media (min-width:1024px){.lg\:w-1\/3{width:33.333333%}.lg\:w-2\/3{width:66.666667%}.lg\:flex-row{flex-direction:row}.lg\:pl-16{padding-left:4rem}.lg\:pr-16{padding-right:4rem}.lg\:text-\[5\.5rem\]{font-size:5.5rem}}@media (min-width:1280px){.xl\:flex{display:flex}}

diff --git a/index.html b/index.html
@@ -140,7 +140,7 @@
     <div class="dc-flag-divider" id="top"></div>
     <nav class="bg-white/95 backdrop-blur-md py-4 px-4 md:px-12 sticky top-0 z-50 border-b border-gray-200 flex justify-between items-center gap-3">
         <a href="#top" class="flex items-center gap-2 md:gap-3 shrink-0">
-            <div class="flex gap-1 text-dcRed text-xl md:text-2xl">
+            <div class="flex gap-1.5 text-dcRed text-2xl md:text-4xl">
                 <span>★</span><span>★</span><span>★</span>
             </div>
             <span class="font-heading font-black text-xl md:text-2xl tracking-tighter text-dcBlack uppercase whitespace-nowrap">Hamilton <span class="text-dcRed">2026</span></span>
@@ -564,7 +564,7 @@
                     <h3 class="text-dcRed font-heading font-bold uppercase tracking-[0.2em] text-[10px] mb-2">The Destination</h3>
                     <h2 class="font-heading text-4xl md:text-6xl font-black tracking-tighter text-dcBlack mb-6 uppercase">Campaign Website & Progressive App</h2>
                     <p class="text-2xl text-gray-800 font-light leading-relaxed max-w-4xl">
-                        Everything above sends people somewhere. This is where they land, and where attention turns into a poll answer, a contact, and a donation.
+                        Every video and post points to one place. This is that place. It is where a viewer answers a poll, leaves a phone number or email, and gives.
                     </p>
                 </div>
 
@@ -573,13 +573,13 @@
                     <div class="flex flex-col md:flex-row gap-8 items-start border-t-2 border-dcBlack pt-12">
                         <div class="font-heading text-6xl font-black text-dcRed md:w-1/4">07</div>
                         <div class="md:w-3/4">
-                            <h4 class="font-heading font-black text-3xl mb-4 text-dcBlack uppercase tracking-tight">Website, Mobile, & PWA</h4>
-                            <p class="text-xl text-gray-800 font-light leading-relaxed mb-6">One build delivered three ways: a website, a mobile experience, and an app residents install from the browser. The flow is capture the poll, capture the contact, then donate.</p>
+                            <h4 class="font-heading font-black text-3xl mb-4 text-dcBlack uppercase tracking-tight">Website, Phone, and Home Screen App</h4>
+                            <p class="text-xl text-gray-800 font-light leading-relaxed mb-6">We build the campaign site once and it works everywhere. On a computer it is the website. On a phone it fits the screen. And residents can add it to their phone’s home screen like an app, with no app store. Every visit follows the same path: answer the poll, leave a phone number or email, then donate.</p>
                         <ul class="space-y-4">
-                            <li class="text-base text-gray-700 leading-relaxed"><strong class="font-bold text-dcBlack uppercase tracking-wider text-xs mr-2">Better Quality.</strong> A site that looks like the campaign, not a template. Fast on a phone, installable to the home screen.</li>
-                            <li class="text-base text-gray-700 leading-relaxed"><strong class="font-bold text-dcBlack uppercase tracking-wider text-xs mr-2">Messaging Match.</strong> Every clip and ad lands on a page that reinforces the exact same message.</li>
-                            <li class="text-base text-gray-700 leading-relaxed"><strong class="font-bold text-dcBlack uppercase tracking-wider text-xs mr-2">Data Capture.</strong> One-tap polling with email/SMS opt-in to build the retargeting list.</li>
-                            <li class="text-base text-gray-700 leading-relaxed"><strong class="font-bold text-dcBlack uppercase tracking-wider text-xs mr-2">ManyChat Flow.</strong> Automated donations and support handled inside IG DMs and FB Messenger.</li>
+                            <li class="text-base text-gray-700 leading-relaxed"><strong class="font-bold text-dcBlack uppercase tracking-wider text-xs mr-2">Looks like her campaign.</strong> Built for Rhonda, not a template. Fast on a phone.</li>
+                            <li class="text-base text-gray-700 leading-relaxed"><strong class="font-bold text-dcBlack uppercase tracking-wider text-xs mr-2">Same message everywhere.</strong> A person who taps a video lands on a page that says what the video said.</li>
+                            <li class="text-base text-gray-700 leading-relaxed"><strong class="font-bold text-dcBlack uppercase tracking-wider text-xs mr-2">We keep the contact.</strong> One tap answers the poll, then a phone number or email, so the campaign can reach that person again before Election Day.</li>
+                            <li class="text-base text-gray-700 leading-relaxed"><strong class="font-bold text-dcBlack uppercase tracking-wider text-xs mr-2">Donations by message.</strong> When someone messages the campaign on Instagram or Facebook, an automatic reply takes them to donate or get help, day or night.</li>
                         </ul>
                     </div>
                 </div>
@@ -597,7 +597,7 @@
 
             <div class="max-w-7xl mx-auto relative z-10">
                 <div class="text-center mb-16">
-                    <div class="flex justify-center gap-2 text-dcRed text-2xl mb-4"><span>★</span><span>★</span><span>★</span></div>
+                    <div class="flex justify-center gap-3 text-dcRed text-4xl mb-6"><span>★</span><span>★</span><span>★</span></div>
                     <h2 class="font-heading text-5xl md:text-7xl font-black tracking-tighter mb-6 text-dcBlack uppercase">What Is The Cost?</h2>
                     <p class="text-xl md:text-3xl font-light text-gray-700 max-w-3xl mx-auto leading-relaxed">
                         The organic content builds the audience. The paid system scales the audience. <br><strong class="text-dcBlack font-black uppercase tracking-tight text-2xl md:text-4xl mt-4 block">The audience wins the election.</strong>
@@ -611,19 +611,19 @@
                     <div class="flex flex-col md:flex-row gap-8 border-b border-gray-200 pb-10 mb-10 items-start md:items-center">
                         <div class="flex-1">
                             <span class="inline-block bg-dcBlack text-white text-[10px] font-bold uppercase tracking-[0.2em] px-3 py-1 mb-4">Phase 1</span>
-                            <h4 class="font-heading font-black text-3xl uppercase text-dcBlack mb-5">Social Media Engine</h4>
+                            <h4 class="font-heading font-black text-3xl uppercase text-dcBlack mb-5">Social Media</h4>
                             <ul class="space-y-4">
                                 <li class="flex items-start gap-3">
                                     <span class="text-dcRed text-2xl leading-none font-black mt-1">✓</span> 
-                                    <span class="text-base text-gray-700 leading-relaxed"><strong class="text-dcBlack">Content Identification:</strong> Finding the viral clips in every recording and adding them to the campaign content folder.</span>
+                                    <span class="text-base text-gray-700 leading-relaxed"><strong class="text-dcBlack">Finding the best clips:</strong> We watch every recording, pull the moments people will share, and add them to the campaign’s shared folder.</span>
                                 </li>
                                 <li class="flex items-start gap-3">
                                     <span class="text-dcRed text-2xl leading-none font-black mt-1">✓</span> 
-                                    <span class="text-base text-gray-700 leading-relaxed"><strong class="text-dcBlack">Criticism Response Videos:</strong> The videos that answer each public critique, cut and formatted for every platform.</span>
+                                    <span class="text-base text-gray-700 leading-relaxed"><strong class="text-dcBlack">Answer videos:</strong> One video for each public criticism, cut to fit Instagram, TikTok and Facebook.</span>
                                 </li>
                                 <li class="flex items-start gap-3">
                                     <span class="text-dcRed text-2xl leading-none font-black mt-1">✓</span> 
-                                    <span class="text-base text-gray-700 leading-relaxed"><strong class="text-dcBlack">Automated Distribution:</strong> Buffer schedules the content seamlessly up until the election.</span>
+                                    <span class="text-base text-gray-700 leading-relaxed"><strong class="text-dcBlack">Posting on a schedule:</strong> Every post is lined up in advance and goes out on its own until Election Day, using a tool called Buffer.</span>
                                 </li>
                             </ul>
                         </div>
@@ -637,19 +637,19 @@
                     <div class="flex flex-col md:flex-row gap-8 items-start md:items-center">
                         <div class="flex-1">
                             <span class="inline-block bg-dcBlack text-white text-[10px] font-bold uppercase tracking-[0.2em] px-3 py-1 mb-4">Phase 2</span>
-                            <h4 class="font-heading font-black text-3xl uppercase text-dcBlack mb-5">Campaign Web & App Flow</h4>
+                            <h4 class="font-heading font-black text-3xl uppercase text-dcBlack mb-5">Campaign Website and App</h4>
                             <ul class="space-y-4">
                                 <li class="flex items-start gap-3">
                                     <span class="text-dcRed text-2xl leading-none font-black mt-1">✓</span> 
-                                    <span class="text-base text-gray-700 leading-relaxed"><strong class="text-dcBlack">Full Infrastructure:</strong> Web, mobile, and Progressive Web App setup.</span>
+                                    <span class="text-base text-gray-700 leading-relaxed"><strong class="text-dcBlack">One site, built once:</strong> Works on a computer, on a phone, and as an app on the phone’s home screen.</span>
                                 </li>
                                 <li class="flex items-start gap-3">
                                     <span class="text-dcRed text-2xl leading-none font-black mt-1">✓</span> 
-                                    <span class="text-base text-gray-700 leading-relaxed"><strong class="text-dcBlack">Conversion Funnel:</strong> Capture the poll, capture the contact, then donate. Includes positions, volunteer signup, events, and voter info.</span>
+                                    <span class="text-base text-gray-700 leading-relaxed"><strong class="text-dcBlack">The path every visitor takes:</strong> Answer the poll, leave a contact, then donate. Also her positions, volunteer signup, events and voter information.</span>
                                 </li>
                                 <li class="flex items-start gap-3">
                                     <span class="text-dcRed text-2xl leading-none font-black mt-1">✓</span> 
-                                    <span class="text-base text-gray-700 leading-relaxed"><strong class="text-dcBlack">ManyChat Automation:</strong> Automates donations and support through Instagram DMs and Facebook Messenger instantly.</span>
+                                    <span class="text-base text-gray-700 leading-relaxed"><strong class="text-dcBlack">Donations by message:</strong> Automatic replies in Instagram and Facebook messages that take people to donate or get help.</span>
                                 </li>
                             </ul>
                         </div>
@@ -713,7 +713,7 @@
     </script>
 
     <footer class="bg-white text-center py-16 border-t border-gray-200">
-        <div class="flex justify-center gap-2 text-dcRed text-xl mb-6">
+        <div class="flex justify-center gap-3 text-dcRed text-3xl mb-6">
             <span>★</span><span>★</span><span>★</span>
         </div>
         <p class="font-heading font-bold text-xs uppercase tracking-[0.3em] text-dcBlack mb-2">Rhonda Hamilton for Mayor 2026</p>
